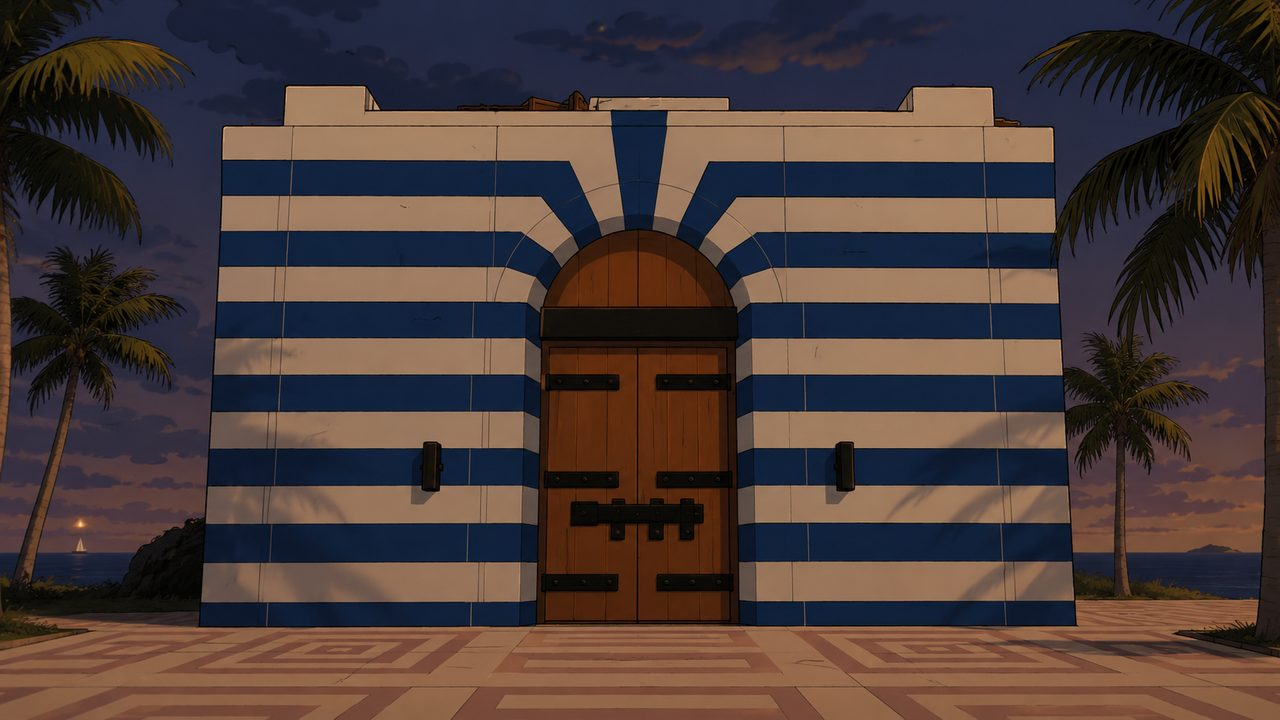
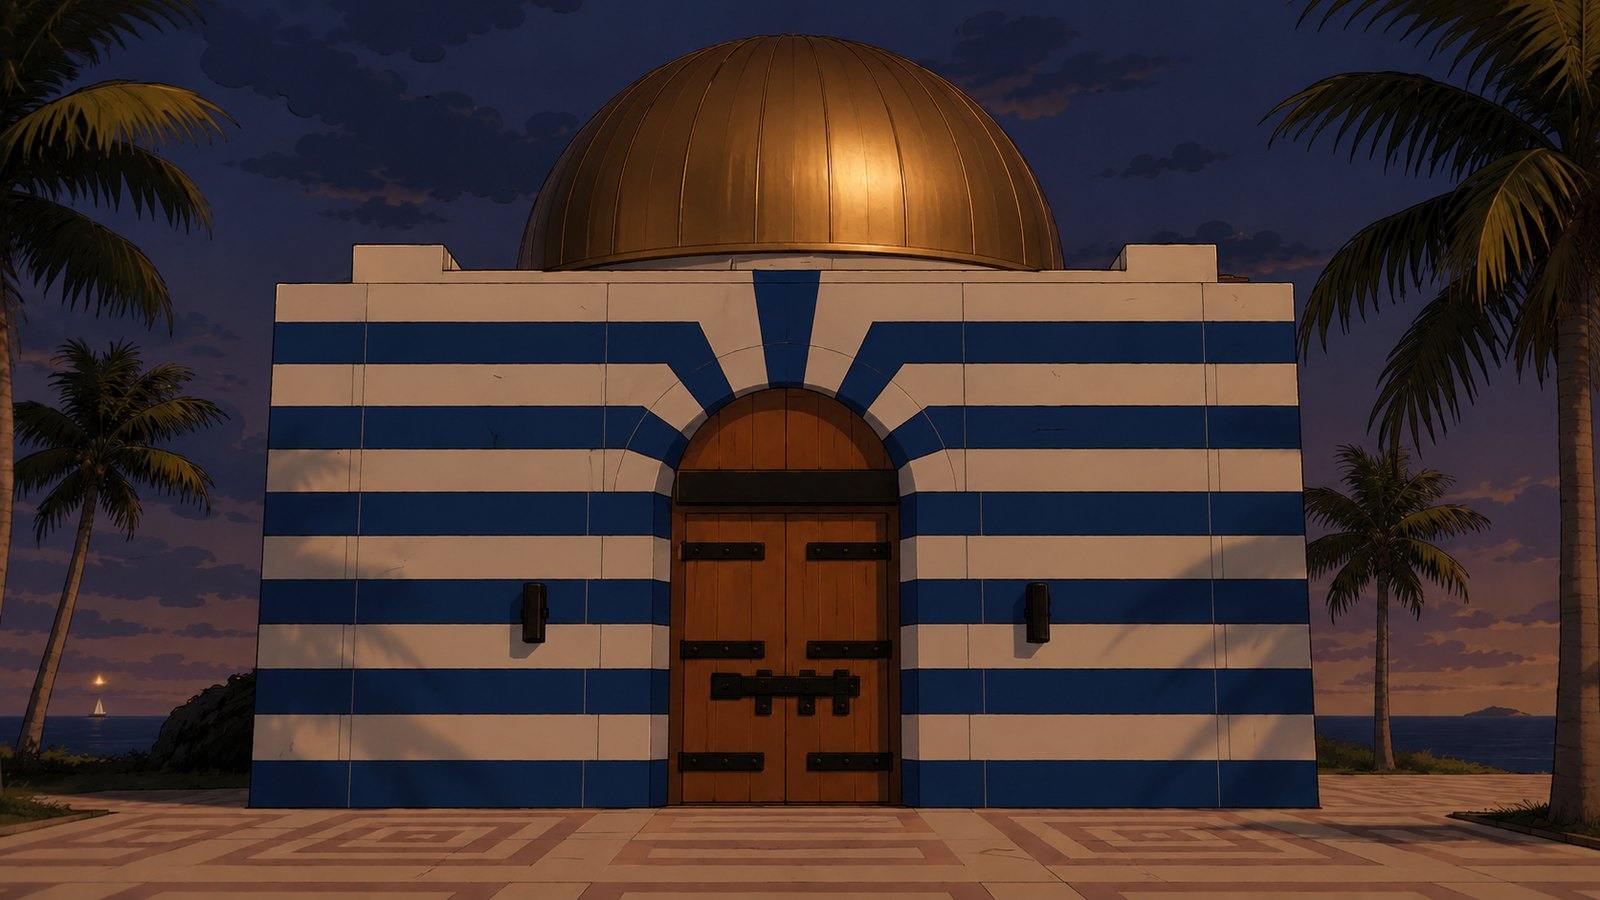
b64: intro reveal — bake the real building image + "enter the building" rework
b63 feedback: "can't see the image, it's just a door." Two causes fixed:
(1) the building image was never on disk (b63 built with the old reveal) -> found
the pasted image in Downloads, converted it to intro_reveal.jpg (1600x900) and
rebuilt: the blue/white/gold dome building now renders.
(2) the b63 fake brown door-leaf panels covered the building -> removed them. The
building is now the visible star (bright/clear). The "doors open" is #introVoid,
an arched dark shape positioned exactly on the doorway (--dx 50% --dy 67%) that
grows from the door seam (.opening) revealing the dark interior, then .dive
(scale-9 toward the doorway) + #introBlack swallow the screen -> menu.

Verified by screenshot: building full+bright, void opens precisely over the doors
(arch matches). Kept tap-skip/safety/once-per-session/fallback. Front-end only;
grabCap still 48; build clean.

diff --git a/game_template.html b/game_template.html
@@ -348,25 +348,20 @@
     color:#fff;text-shadow:0 4px 0 #000,0 0 30px rgba(255,212,59,.8);
     pointer-events:none;opacity:0}
   /* loading screen ("Bringing Goy into the system") */
-  /* --- cinematic intro reveal: bag yanked off -> doors open -> dive into the dark --- */
+  /* --- cinematic intro: SEE the building -> its doorway opens to the dark -> you're pulled inside --- */
   #introReveal{position:absolute;inset:0;z-index:199;background:#000;overflow:hidden;
-    --dx:50%;--dy:66%;--dw:15%;--dh:34%;                       /* doorway position/size (% of screen) — TUNE to the image */
-    transform-origin:var(--dx) var(--dy);transition:transform .62s cubic-bezier(.6,0,.32,1)}
-  #introReveal.dive{transform:scale(8)}                       /* rush THROUGH the open doors into the dark */
+    --dx:50%;--dy:67%;--dw:13%;--dh:38%;                       /* the building's DOORWAY (% of screen) — TUNE to the image */
+    transform-origin:var(--dx) var(--dy);transition:transform .72s cubic-bezier(.5,0,.28,1)}
+  #introReveal.dive{transform:scale(9)}                       /* hurled THROUGH the doorway into the dark interior */
   #introRevealImg{width:100%;height:100%;object-fit:cover;display:block;
-    filter:brightness(.20) blur(9px);transition:filter .5s ease-out}      /* starts dim+blurred (hood still on) */
-  #introReveal.lit #introRevealImg{filter:brightness(1) blur(0)}          /* …snaps into focus as the bag comes off */
-  #introDoors{position:absolute;left:var(--dx);top:var(--dy);width:var(--dw);height:var(--dh);
-    transform:translate(-50%,-50%);perspective:760px;pointer-events:none}
-  #introVoid{position:absolute;inset:-6%;background:radial-gradient(circle at 50% 42%,#000 55%,#070707)}  /* the dark interior behind the doors */
-  .introLeaf{position:absolute;top:0;height:100%;width:50%;box-sizing:border-box;backface-visibility:hidden;
-    background:linear-gradient(100deg,#4a2e16,#2a1809);border:2px solid #160c04;
-    transition:transform .5s cubic-bezier(.5,0,.35,1)}
-  #introLeafL{left:0;transform-origin:left center;border-right:1px solid #160c04}
-  #introLeafR{right:0;transform-origin:right center}
-  #introDoors.open #introLeafL{transform:rotateY(-112deg)}                 /* the double doors swing open */
-  #introDoors.open #introLeafR{transform:rotateY(112deg)}
-  #introBlack{position:absolute;inset:0;z-index:201;background:#000;opacity:0;pointer-events:none;transition:opacity .5s ease-in}
+    filter:brightness(.4) blur(5px);transition:filter .5s ease-out}       /* settles out of a blur as the hood lifts… */
+  #introReveal.lit #introRevealImg{filter:brightness(1) blur(0)}          /* …the building snaps clear + bright (you SEE it) */
+  #introVoid{position:absolute;left:var(--dx);top:var(--dy);width:var(--dw);height:var(--dh);
+    transform:translate(-50%,-50%) scale(.06,.6);transform-origin:center;
+    background:#050505;border-radius:46% 46% 6% 6%/34% 34% 3% 3%;box-shadow:0 0 44px 12px rgba(0,0,0,.92);
+    transition:transform .5s cubic-bezier(.5,0,.25,1)}                     /* the dark interior: parts open from the door seam */
+  #introReveal.opening #introVoid{transform:translate(-50%,-50%) scale(1,1)}
+  #introBlack{position:absolute;inset:0;z-index:201;background:#000;opacity:0;pointer-events:none;transition:opacity .55s ease-in}
   #introBlack.on{opacity:1}
   #loadingScreen{position:absolute;inset:0;z-index:202;background:#000;
     display:flex;align-items:center;justify-content:center;
@@ -461,7 +456,7 @@
       <button id="chDecline" class="btn ghost">DECLINE</button></div>
     <div class="chBar"><i id="chBarFill"></i></div>
   </div>
-  <div id="verBadge" style="position:absolute;bottom:6px;right:8px;font-size:10px;color:rgba(255,255,255,.28);z-index:60;pointer-events:none;font-family:sans-serif">build: based-cup b63 ✓</div>
+  <div id="verBadge" style="position:absolute;bottom:6px;right:8px;font-size:10px;color:rgba(255,255,255,.28);z-index:60;pointer-events:none;font-family:sans-serif">build: based-cup b64 ✓</div>
   <div id="potTag" class="hide" style="position:absolute;bottom:10px;left:50%;transform:translateX(-104%);font-size:12px;font-weight:bold;color:#ffd43b;z-index:60;pointer-events:none;font-family:sans-serif;background:rgba(0,0,0,.45);padding:3px 10px;border-radius:8px"></div>
   <div id="liveCountHud" class="hide" style="position:absolute;top:12px;left:12px;z-index:55;font-size:11px;font-weight:bold;color:#9bf6a8;font-family:sans-serif;background:rgba(10,20,34,.75);padding:3px 9px;border-radius:8px;pointer-events:none">👁 —</div>
 
@@ -526,7 +521,7 @@
 
   <!-- intro reveal image + cinematic door rig (uncovered once per session: bag off -> doors open -> dive into the dark) -->
   <div id="introReveal" class="hide"><img id="introRevealImg" src="__INTRO_REVEAL__" alt="">
-    <div id="introDoors"><div id="introVoid"></div><div id="introLeafL" class="introLeaf"></div><div id="introLeafR" class="introLeaf"></div></div>
+    <div id="introVoid"></div>
   </div>
   <div id="introBlack"></div>
   <!-- loading screen ("Bringing Goy into the system") -->
@@ -3668,8 +3663,7 @@ function showIntroLoading(fn){
     clearTimeout(_loadTimer); clearTimeout(_introSafety);
     ov.removeEventListener('pointerdown',finish);
     ov.classList.add('hide'); ov.classList.remove('intro','rise','bagoff'); ov.style.transform='';
-    if(rev){ rev.classList.add('hide'); rev.classList.remove('lit','dive'); }
-    const dr=$('introDoors'); if(dr) dr.classList.remove('open');
+    if(rev){ rev.classList.add('hide'); rev.classList.remove('lit','dive','opening'); }
     const bl=$('introBlack'); if(bl) bl.classList.remove('on');     // clean return — never leave it stuck zoomed/dark
     if(pe) pe.style.display='';
     lt.classList.remove('typing');
@@ -3684,19 +3678,19 @@ function showIntroLoading(fn){
     if(done) return;
     if(i<=msg.length){ lt.textContent=msg.slice(0,i); i++; _loadTimer=setTimeout(tick, per); return; }
     lt.classList.remove('typing');                       // typing done
-    _loadTimer=setTimeout(()=>{                          // 1) the hood is YANKED off the lens; the building snaps into focus
+    _loadTimer=setTimeout(()=>{                          // 1) hood YANKED off the lens -> the building snaps clear + bright
       if(done) return;
       ov.classList.add('bagoff'); if(rev) rev.classList.add('lit');
-      _loadTimer=setTimeout(()=>{                        // 2) you're staring at the building -> the doors swing OPEN
+      _loadTimer=setTimeout(()=>{                        // 2) you stare at the building -> its doorway parts open to the dark
         if(done) return;
-        const dr=$('introDoors'); if(dr) dr.classList.add('open');
-        _loadTimer=setTimeout(()=>{                      // 3) you're hurled THROUGH the doors into the dark interior
+        if(rev) rev.classList.add('opening');
+        _loadTimer=setTimeout(()=>{                      // 3) you're hurled THROUGH the doorway into the dark interior
           if(done) return;
           if(rev) rev.classList.add('dive');
           const bl=$('introBlack'); if(bl) bl.classList.add('on');
-          _loadTimer=setTimeout(finish, 600);            // 4) darkness fills the screen -> drop into the menu
-        }, 560);
-      }, 660);
+          _loadTimer=setTimeout(finish, 700);            // 4) darkness fills the screen -> drop into the menu
+        }, 460);
+      }, 850);
     }, 150);
   })();
 }

diff --git a/check.js b/check.js
@@ -2750,8 +2750,7 @@ function showIntroLoading(fn){
     clearTimeout(_loadTimer); clearTimeout(_introSafety);
     ov.removeEventListener('pointerdown',finish);
     ov.classList.add('hide'); ov.classList.remove('intro','rise','bagoff'); ov.style.transform='';
-    if(rev){ rev.classList.add('hide'); rev.classList.remove('lit','dive'); }
-    const dr=$('introDoors'); if(dr) dr.classList.remove('open');
+    if(rev){ rev.classList.add('hide'); rev.classList.remove('lit','dive','opening'); }
     const bl=$('introBlack'); if(bl) bl.classList.remove('on');     // clean return — never leave it stuck zoomed/dark
     if(pe) pe.style.display='';
     lt.classList.remove('typing');
@@ -2766,19 +2765,19 @@ function showIntroLoading(fn){
     if(done) return;
     if(i<=msg.length){ lt.textContent=msg.slice(0,i); i++; _loadTimer=setTimeout(tick, per); return; }
     lt.classList.remove('typing');                       // typing done
-    _loadTimer=setTimeout(()=>{                          // 1) the hood is YANKED off the lens; the building snaps into focus
+    _loadTimer=setTimeout(()=>{                          // 1) hood YANKED off the lens -> the building snaps clear + bright
       if(done) return;
       ov.classList.add('bagoff'); if(rev) rev.classList.add('lit');
-      _loadTimer=setTimeout(()=>{                        // 2) you're staring at the building -> the doors swing OPEN
+      _loadTimer=setTimeout(()=>{                        // 2) you stare at the building -> its doorway parts open to the dark
         if(done) return;
-        const dr=$('introDoors'); if(dr) dr.classList.add('open');
-        _loadTimer=setTimeout(()=>{                      // 3) you're hurled THROUGH the doors into the dark interior
+        if(rev) rev.classList.add('opening');
+        _loadTimer=setTimeout(()=>{                      // 3) you're hurled THROUGH the doorway into the dark interior
           if(done) return;
           if(rev) rev.classList.add('dive');
           const bl=$('introBlack'); if(bl) bl.classList.add('on');
-          _loadTimer=setTimeout(finish, 600);            // 4) darkness fills the screen -> drop into the menu
-        }, 560);
-      }, 660);
+          _loadTimer=setTimeout(finish, 700);            // 4) darkness fills the screen -> drop into the menu
+        }, 460);
+      }, 850);
     }, 150);
   })();
 }

diff --git a/STATE.md b/STATE.md
@@ -10,10 +10,9 @@ Read **CLAUDE.md** first (laws/build/deploy). Deep internals are in **PROJECT_BR
 >
 > Then confirm the badge is bumped and `index.html` is built/validated. (Rules/gotchas change → update CLAUDE.md instead.)
 
-## Current build: **b63** (badge in `game_template.html`, search `based-cup bNN ✓`)
-Last verified: new cinematic intro reveal (bag-off → doors open → dive into the dark → menu) — full sequence runs to completion + resets cleanly (no stuck zoom/doors/black), fallback + once-per-session guard intact; grabCap 48; 0 tokens, 0 placeholders, harness passes.
-⚠️ **ACTION NEEDED (image):** the new building image must be saved as `intro_reveal.jpg` in the folder, then `python build.py` to bake it in — CC cannot write a pasted chat image to disk. Doorway alignment vars (`--dx/--dy/--dw/--dh` on `#introReveal`) likely need a nudge to match the image's doors.
-✅ **b63 = cinematic intro reveal rework.** Replaced the old "black curtain rises → hold on image" intro (`showIntroLoading`) with: (1) the hood/bag YANKED off the lens (`#loadingScreen.bagoff` keyframe) while the building snaps from dim+blurred into focus (`#introReveal.lit`); (2) the building's double doors SWING open (`#introDoors`/`.introLeaf` perspective rotateY) revealing a black void (`#introVoid`); (3) a fast DIVE through the doorway (`#introReveal.dive` scale-8 toward the doorway origin) as black fills the screen (`#introBlack`); (4) darkness complete → `finish()` → second menu. Tunable doorway position via CSS vars; tap-to-skip + hard safety timer + once-per-session guard all kept. Pure front-end; no gameplay/netcode/grabCap change.
+## Current build: **b64** (badge in `game_template.html`, search `based-cup bNN ✓`)
+Last verified (screenshots): the blue/white/gold building image renders full + bright, and its doorway opens to a black arched void EXACTLY over the doors (centered 50%/67%) — reads as "enter the building," not "just a door." grabCap 48; 0 tokens, 0 placeholders, harness passes.
+✅ **b64 = intro reveal: actual building + "enter it" rework.** Two fixes over b63: (1) baked the real image — saved the pasted blue/white/gold dome building (from `Downloads/ChatGPT Image Jun 30…png`) as `intro_reveal.jpg` (1600×900). (2) Reworked the animation so the BUILDING is the visible star: the b63 fake brown door-leaf panels covered it ("just a door") → removed them. Now: hood yanked off → building snaps clear+bright (you SEE it) → its **doorway** (`#introVoid`, an arched dark shape at `--dx/--dy/--dw/--dh`) **parts open from the door seam** to reveal the dark interior → fast **dive** (`#introReveal.dive` scale-9 toward the doorway) as `#introBlack` fills → menu. Doorway vars tuned to the image (`--dx:50% --dy:67% --dw:13% --dh:38%`), still nudgeable. Tap-skip + safety timer + once-per-session guard + no-image fallback kept. Front-end only.
 ✅ **b62 = slow-mo camera target fix.** b61's camera did a generic eased chase of `ball.x` → lagged the moving ball, framed "randomly", couldn't see the ball go in. Now at arm-time it picks framing from where the shot was STRUCK (`ball.kickX`, set in `tryKick`) vs the halfway line: struck from **own half / beyond halfway (long-range) → FOLLOW the ball** the whole way in; struck from **inside the opponent's half (short-range) → LOCK on the target goal** so you clearly see it cross. Decided once at arm (never flips mid-slow-mo); during the blast it frames the goal. Online-synced via streamed `cm`/`cs` (mode + side, same pattern as `sm`/`goalSeq`). Tighter follow ease. Slow-mo timing/gating + explosion + netcode + scoring all unchanged.
 ✅ **b61 = smooth slow-mo + cinematic zoom.** The b60 frame-pulldown (skip ~70% of frames) read as buffering/lag. Replaced it with **`motionScale`** — slow-mo scales per-frame motion (eased) so the ball moves a little EVERY frame at 60fps = buttery, not choppy. Applied in `applyMove`/`applyMoveAI`/`stepBall`/`predictGuestSelf`. Added a **cinematic camera zoom** (`camZoom`/`camFocus`, `SLOWMO_ZOOM=1.5`) that eases in toward the ball (or goal during the blast), clamped to stay on-field, and eases back out — "all eyes on the ball." Gating + sync (`sm` flag) + explosion unchanged from b60. Still visual-time-only: match clock/netcode/score untouched.
 ✅ **b60 = slow-mo anticipation + gating (Pass 1 of 2).** Slow-mo now ARMS as a fast goal-bound shot enters a zone in front of the mouth (so you watch the ball cross in slow-mo, THEN the explosion), and only on dramatic deciders: **2nd half + last 20s + pre-goal score margin ≤ 1** (or `FORCE_GOAL_SLOWMO`). Reading-flag: "FX clock only" interpreted as **visual time only** — slow-mo dilates the rendered sim via frame-pulldown + the FX clock, but **never** the match clock (`timeLeft` stays real-time), the netcode protocol, or the scoring/half OUTCOME. Online-synced via a streamed `sm` flag (same pattern as `goalSeq`): host pulls down its sim → guest follows + pulls down its own prediction. **The explosion is unchanged** — only WHEN slow-mo arms/fires changed. If the gate fails the explosion still plays, just at full speed. **Pass 2 = opponent-out-of-range detection (not done here).**
@@ -65,7 +64,7 @@ This folder is the git checkout (branch `main` tracking `origin/main`); deploy =
 | Slow-mo anticipates the crossing + gated to last-20s deciders (+FORCE toggle) | ✅ done | b60 |
 | Slow-mo smooth (per-frame motion, no buffering) + cinematic zoom to the ball | ✅ done | b61 |
 | Slow-mo camera target: follow ball (long shot) / lock goal (short shot) | ✅ done | b62 |
-| Cinematic intro reveal (bag-off → doors open → dive into dark → menu) | ✅ done · needs new image dropped in | b63 |
+| Cinematic intro reveal: see building → doorway opens → dive in → menu | ✅ done (real image baked) | b64 |
 | Slow-mo Pass 2 — opponent out-of-range detection | 🔜 next | — |
 | Steal-as-contest (defense vs dribbling, cooldown) + dribble glue | ✅ done | b55 |
 | Character menu showing the 6 stats + pace (Phase 3) | 🔜 next — not built (old carousel shimmed) | — |
@@ -115,6 +114,7 @@ Art source library: `OneDrive\Desktop\SOCC\CHARACTERS` (and the `C` subfolder = 
 ---
 
 ## Log
+- b64: **intro reveal — baked the real building + reworked to "enter the building."** Feedback on b63: "can't see the image, it's just a door." Two causes: the new building image was never on disk (b63 built with the old reveal), and the b63 fake brown door-leaf panels (`#introLeafL/R`) sat over the centre and dominated. Fixes: (1) found the pasted image at `Downloads/ChatGPT Image Jun 30, 2026, 01_44_06 PM.png`, converted it to `intro_reveal.jpg` (1600×900, quality 86) and rebuilt — the blue/white/gold dome building now renders. (2) Removed the door-leaf panels; the building image is now the visible star (brighter start: `brightness(.4) blur(5)` → `.lit` full). The "doors open" is now `#introVoid` — an **arched dark shape positioned exactly on the doorway** (`--dx:50% --dy:67% --dw:13% --dh:38%`) that grows from a thin door-seam slit to full (`.opening`), reading as the doors parting to the dark interior — then `.dive` (scale-9 toward the doorway) + `#introBlack` swallow the screen → menu. Verified by screenshot: building full+bright, void opens precisely over the doors (arch matches). Kept tap-skip/safety/once-per-session/fallback. grabCap 48; build clean; harness passes.
 - b63: **new cinematic intro reveal (front-end only).** Reworked `showIntroLoading` from "black curtain rises → hold on reveal image" to a 4-beat sequence: bag/hood YANKED off the lens (`#loadingScreen.bagoff` keyframe) + building snaps from dim/blur into focus (`#introReveal.lit`) → building's double doors swing open (`#introDoors`/`.introLeaf` rotateY perspective) revealing a black void (`#introVoid`) → fast DIVE through the doorway (`#introReveal.dive` scale-8 with transform-origin at the doorway) as `#introBlack` fades to full → darkness complete → `finish()` into the second menu. Doorway position is 4 tunable CSS vars on `#introReveal` (`--dx/--dy/--dw/--dh`). Kept tap-to-skip, the hard safety backstop, the once-per-session `introPlayed` guard, and the no-image `showLoadingThen` fallback. Verified: full chain completes (callback into menu fires) and resets cleanly (introReveal/loading hidden, doors closed, black off — no stuck zoom). grabCap 48; build clean; harness passes. **NOTE:** the pasted building image isn't on disk — CC can't write a pasted image; user must save it as `intro_reveal.jpg` + rebuild, and likely nudge `--dy` to align the doors.
 - b62: **slow-mo camera target fix (camera only — timing/gating/explosion untouched).** b61 eased the focus toward the live `ball.x` generically → it lagged the moving ball and framed the wrong spot ("you can't see the ball go in"). Now `maybeArmSlowmo` decides the framing ONCE when slow-mo first arms, from where the shot was struck (`ball.kickX`, set in `tryKick`) relative to halfway (W/2): **long-range** (struck from own half / beyond halfway) → `slowmoCamMode='ball'` = camera FOLLOWS the ball all the way in; **short-range** (struck inside the opponent's half holding the target goal) → `slowmoCamMode='goal'` = camera LOCKS on that goal (`FIELD.l`/`FIELD.r`) so you clearly see the ball cross. `slowmoCamSide` = the goal scored on. During the explosion it frames the goal. Doesn't flip mid-slow-mo (only set when `slowmoT<=0`). Online-synced: streamed `cm` (mode) + `cs` (side) in the snapshot, consumed into `netCamMode`/`netCamSide` (same proven pattern as `sm`/`goalSeq`); camera is purely visual — never touches netcode/clock/score/collisions. New tunables `SLOWMO_ZOOM_EASE=0.14`, `SLOWMO_FOLLOW_EASE=0.35`. Verified: long→follow, short→lock (both goals, focus = exact goal X), no mid-flip, clean reset (camZoom→1, recenters W/2), mobile-safe (canvas transform leaves DOM/HUD unchanged, fits viewport, draws OK). grabCap still 48; build clean.
 - b61: **slow-mo smoothness fix + cinematic zoom.** The b60 frame-pulldown (run the sim only ~30% of frames) made the ball jump every 2-3 frames → felt like buffering/lag. Replaced with a per-frame motion scale `motionScale` (eased toward `GOAL_SLOWMO_SCALE` during slow-mo) applied to the position integration in `applyMove`/`applyMoveAI`/`stepBall`/`predictGuestSelf` — the ball now moves a small amount EVERY frame (60fps) = smooth. Verified: 8 consecutive steps all move (~2.85px avg vs 9.49 normal ≈30%), no zero-deltas. Added a **cinematic zoom**: `camZoom` eases toward `SLOWMO_ZOOM`(1.5) with focus easing toward the ball (or `goalFx.gx` during the blast), clamped so the view never leaves the field, eased back to 1.0 after — verified zoom 1.49 in / 1.0 out, focus tracks the goal, on-field. `maybeArmSlowmo` now keeps slow-mo topped while the shot is in the zone (whole crossing stays slow). Gating, the streamed `sm` sync, the explosion, and "visual-time-only" (match clock/netcode/score untouched) are all unchanged from b60. grabCap still 48; build clean.